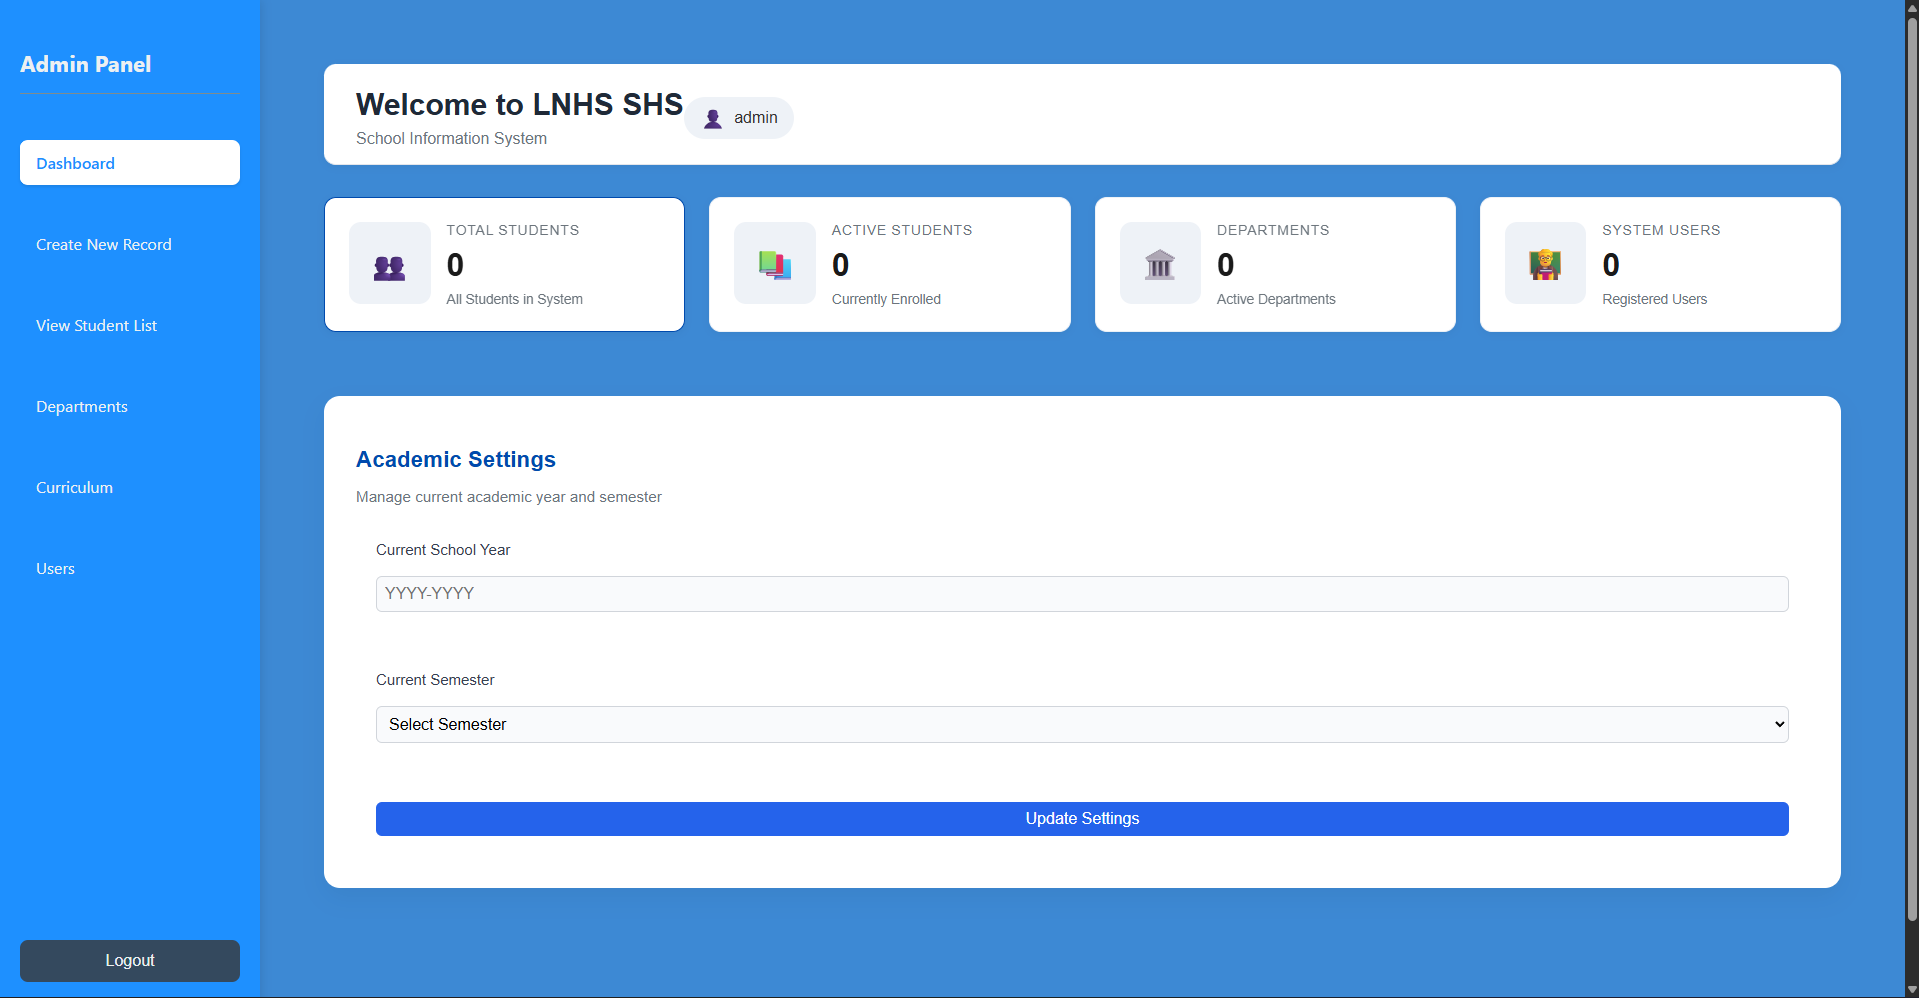
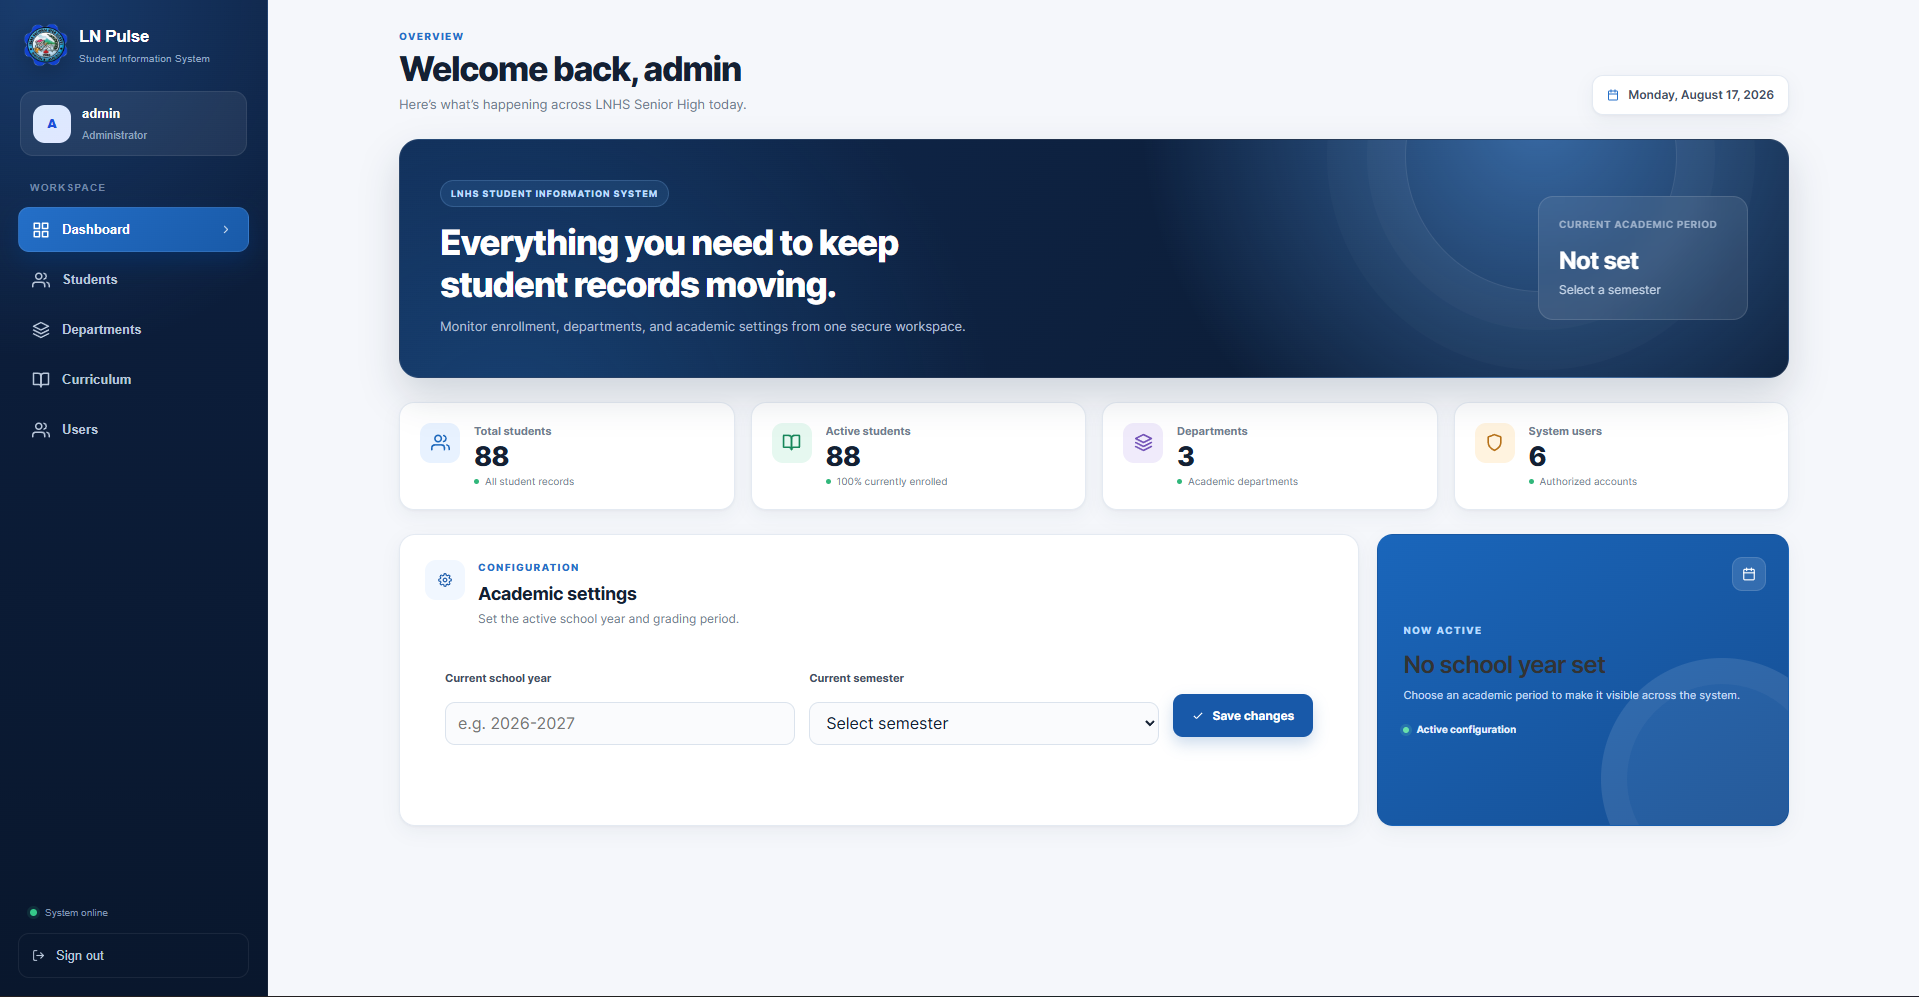
Update for LnPulse project gallery

diff --git a/index.html b/index.html
@@ -1713,10 +1713,11 @@
             >
               <div
                 class="work-image"
-                data-gallery="assets/projects/LnPulse/dashboard.png|assets/projects/LnPulse/login-optimized.jpg"
+                data-gallery="assets/projects/LnPulse/dashboard-optimized.png|assets/projects/LnPulse/login-optimized.png|assets/projects/LnPulse/students-optimized.png|assets/projects/LnPulse/departments-optimized.png|assets/projects/LnPulse/curriculum-optimized.png|assets/projects/LnPulse/users-optimized.png"
               >
                 <img
-                  src="assets/projects/LnPulse/dashboard.png"
+                  src="assets/projects/LnPulse/dashboard-optimized.png"
+                  data-fallback-src="assets/projects/LnPulse/dashboard.png"
                   width="1919"
                   height="998"
                   loading="lazy"
@@ -2238,7 +2239,6 @@
                     name="name"
                     autocomplete="name"
                     required
-                    placeholder="John Doe"
                   />
                 </div>
 
@@ -2253,7 +2253,6 @@
                     name="phone"
                     autocomplete="tel"
                     inputmode="tel"
-                    placeholder="0912 345 6789"
                   />
                 </div>
 
@@ -2265,7 +2264,6 @@
                     name="email"
                     autocomplete="email"
                     required
-                    placeholder="john@example.com"
                   />
                 </div>
 

diff --git a/tests/test_project_galleries.py b/tests/test_project_galleries.py
@@ -1,0 +1,52 @@
+import unittest
+from html.parser import HTMLParser
+from pathlib import Path
+
+
+class GalleryParser(HTMLParser):
+    def __init__(self) -> None:
+        super().__init__()
+        self.current_project: str | None = None
+        self.pending_sources: list[str] | None = None
+        self.galleries: dict[str, tuple[list[str], str]] = {}
+
+    def handle_starttag(
+        self, tag: str, attrs: list[tuple[str, str | None]]
+    ) -> None:
+        attributes = dict(attrs)
+        if tag == "article" and attributes.get("data-project"):
+            self.current_project = attributes["data-project"]
+        if (
+            tag == "div"
+            and self.current_project
+            and "work-image" in (attributes.get("class") or "").split()
+            and attributes.get("data-gallery")
+        ):
+            self.pending_sources = attributes["data-gallery"].split("|")
+        if tag == "img" and self.current_project and self.pending_sources:
+            self.galleries[self.current_project] = (
+                self.pending_sources,
+                attributes.get("src") or "",
+            )
+            self.pending_sources = None
+
+    def handle_endtag(self, tag: str) -> None:
+        if tag == "article":
+            self.current_project = None
+            self.pending_sources = None
+
+
+class ProjectGalleryTests(unittest.TestCase):
+    def test_initial_image_is_first_gallery_source(self) -> None:
+        parser = GalleryParser()
+        index_path = Path(__file__).resolve().parents[1] / "index.html"
+        parser.feed(index_path.read_text(encoding="utf-8"))
+
+        self.assertIn("lnpulse", parser.galleries)
+        for project, (sources, initial_source) in parser.galleries.items():
+            with self.subTest(project=project):
+                self.assertEqual(sources[0], initial_source)
+
+
+if __name__ == "__main__":
+    unittest.main()
